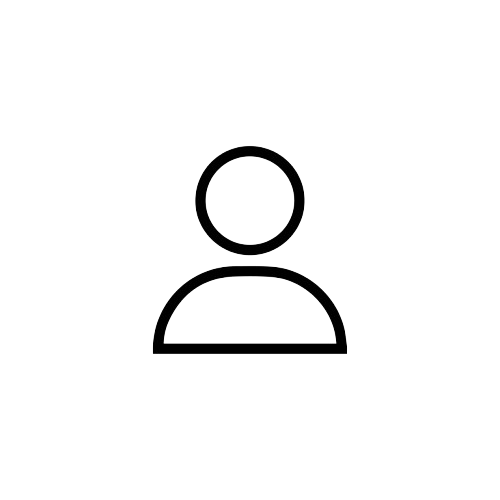
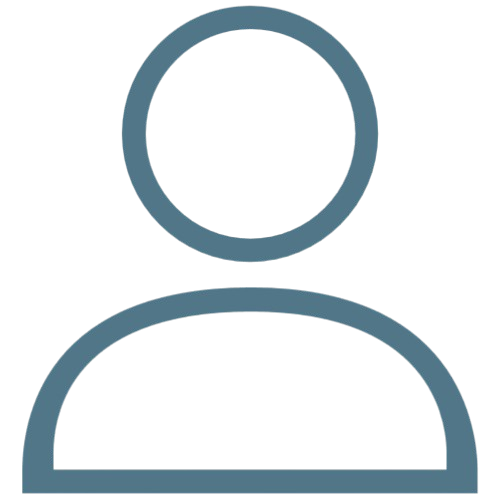
Cambio de unidades de medida, mejora del Navbar

Changed region(s): [[0.03, 0.0, 0.96, 0.99]]

diff --git a/view/styles.css b/view/styles.css
@@ -1,144 +1,154 @@
+:root {
+    --blue: rgba(80, 118, 135, 1);
+    --light: rgba(248, 245, 231, 1);
+    --dark: rgba(51, 51, 51, 1);
+}
+
 body {
-    background: #f8f5e7;
-    color: #333;
-    padding-left: 6%;
-    padding-right: 6%;
+    overflow-x: hidden;
+    background: var(--light);
+    color: var(--dark);
     font-family: 'Segoe UI', Tahoma, Geneva, Verdana, sans-serif;
     font-size: 1em;
     line-height: 1.5;
+    margin: 0;
 }
 
 /* NAVBAR */
+/* CONTAINER */
 .navbar {
     display: flex;
     flex-wrap: wrap;
     justify-content: space-between;
     align-items: center;
-    margin-top: 2vh 0;
+    margin: 0;
+    padding-left: 1em;
+    padding-right: 1em;
+    box-sizing: border-box;
+    background-color: var(--blue);
 }
 
-.logo {
-    order: 0;
-    display: flex;
-    align-items: center;
-    height: 4vh; 
-}
+/* NAVBAR */
+/* LOGO */
 .logo img {
-    width: 150px; 
+    width: 10em;
+    max-width: 100%;
+    height: auto;
     transition: transform 0.3s ease;
 }
 .logo img:hover {
     transform: scale(1.05);
 }
 
-.section-nav {
-    display: flex;
-    gap: 2vw;
-}
-.section-nav a {
-    color: rgba(77, 106, 141, 1);
-    text-decoration: none;
-    font-size: 2vh;
-    padding: 1vh 1vw; 
-    border-radius: 1vh; 
-    transition: background-color 0.3s ease-in-out, color 0.3s ease-in-out;
-}
-.section-nav a:hover {
-    background-color: rgba(77, 106, 141, 1);
-    color: white;
-}
-
+/* NAVBAR */
+/* SEARCH BAR*/
 .search-container {
     display: flex;
     align-items: center;
     background: white;
-    border-radius: 4vh;
-    box-shadow: 0.5vh 0.5vh 1vh rgba(0, 0, 0, 0.2); 
-    height: 6vh;
-    width: 40vw;
-    transition: 0.3s;
+    border-radius: 2em;
+    height: 3em;
+    width: 40%;
     overflow: hidden;
+    box-shadow: 0 0 0.25em rgba(0, 0, 0, 0.15);
+    transition: all 0.3s ease-in-out;
+    transform: scale(1);
 }
 .search-container:hover {
-    box-shadow: 0.8vh 0.8vh 1vh rgba(0, 0, 0, 0.3);
+    box-shadow: 0 0.6em 1.2em rgba(0, 0, 0, 0.3);
+    transform: scale(1.01);
 }
 .search-bar {
     width: 100%;
     border: none;
     outline: none;
-    font-size: 2vh;
-    padding: 1vh;
-    border-radius: 4vh;
+    font-size: 1em;
+    padding: 0.5em;
     background: transparent; 
 }
+
 .search-button {
+    display: flex;
+    align-items: center;
+    justify-content: center;
     background: transparent;
     border: none;
     cursor: pointer;
-    padding: 1vh;
-    padding-right: 2vh;
-    display: flex;
-    align-items: center;
+    padding: 0.5em;
 }
 .search-button img {
-    width: 3vh; 
-    height: 3vh;
+    width: 2.5em;
+    height: 2.5em;
 }
 
+/* NAVBAR */
+/* ACCOUNT MENU */
 .account-menu {
     position: relative;
 }
 .account-button {
     display: flex;
     align-items: center;
+    justify-content: space-between;
     background: white;
     border: none;
-    padding: 1vh 1vw;
-    border-radius: 4vh;
-    box-shadow: 0.5vh 0.5vh 1vh rgba(0, 0, 0, 0.2); 
+    padding: 0 1em;
+    height: 3em;
+    border-radius: 2em;
+    box-shadow: 0 0 0.25em rgba(0, 0, 0, 0.15);
     cursor: pointer;
-    height: 6vh;
-    transition: 0.3s;
-    overflow: hidden;
+    gap: 0.8em;
+    transition: all 0.3s ease-in-out;
+    transform: scale(1);
 }
+.account-button:hover {
+    box-shadow: 0 0.8em 1.5em rgba(0, 0, 0, 0.3);
+    transform: scale(1.01);
+}
+
 .account-icon {
     display: flex;
     flex-direction: column;
-    gap: 0.2vh;
+    justify-content: center;
+    gap: 0.3em;
     margin-right: 1vw;
     min-height: 0;
 }
 .account-icon hr {
-    margin: 0.2vh;
-    width: 2.5vw; 
-    height: 0.3vh;
-    background-color: rgba(77, 106, 141, 1);
+    margin: 0;
+    width: 1.5em;
+    height: 0.2em;
+    background-color: var(--blue);
     border: none;
-    border-radius: 2vh;
+    border-radius: 1em;
     transition: transform 0.3s ease-in-out;
 }
+
 .account-picture {
-    width: 5vh; 
-    height: 5vh;
+    width: 2.2em; 
+    height: 2.2em;
     display: flex;
     align-items: center;
     justify-content: center;
-    background: #ddd;
+    background: white;
     border-radius: 50%;
+    overflow: hidden;
 }
 .account-picture img {
-    width: 7vh;  
-    height: 7vh;
+    width: 100%;
+    height: 100%;
+    object-fit: contain;
 }
+
 .account-dropdown-menu {
     position: absolute;
     top: 110%;
     right: 0;
     background: white;
-    box-shadow: 0.5vh 0.5vh 1vh rgba(0, 0, 0, 0.2);
-    border-radius: 2vh;
+    box-shadow: 0 0.5em 1em rgba(0, 0, 0, 0.2);
+    border-radius: 1.5em;
     display: none;
-    width: 12vw;
+    width: 12em;
     min-width: 150px;
     z-index: 100;
     transition: opacity 0.3s ease-in-out;
@@ -146,17 +156,21 @@ body {
 }
 .account-dropdown-menu ul {
     list-style: none;
-    padding: 1vh;
+    padding: 1em;
     margin: 0;
 }
 .account-dropdown-menu li {
-    padding: 1vh;
-    font-size: 2vh;
+    padding: 0.75em;
+    font-size: 1rem;
 }
 .account-dropdown-menu li a {
     text-decoration: none;
-    color: black;
+    color: var(--dark);
     display: block;
+    transition: color 0.2s;
+}
+.account-dropdown-menu li a:hover {
+    color: var(--blue);
 }
 .account-menu:focus-within .account-dropdown-menu {
     display: block;
@@ -193,7 +207,7 @@ body {
 }
 .main-concert-banner button {
     background: white; 
-    color: rgba(77, 106, 141, 1);
+    color: var(--blue);
     font-size: 3vh;
     font-weight: bold;
     letter-spacing: 0.1vh;
@@ -205,7 +219,7 @@ body {
     box-shadow: 0.3vh 0.3vh 0.5vh rgba(0, 0, 0, 0.2);
 }
 .main-concert-banner button:hover {
-    background-color: rgba(77, 106, 141, 1);
+    background-color: var(--blue);
     color: white;
     transform: scale(1.05); 
 }
@@ -221,14 +235,14 @@ body {
     display: inline-block;
     font-size: 3vh;
     font-weight: semi-bold;
-    color: rgba(77, 106, 141, 1);
+    color: var(--blue);
     margin-bottom: 0.5vh;
     
 }
 .section-title hr {
     width: 100%;
     height: 0.3vh;
-    background-color: rgba(77, 106, 141, 1); 
+    background-color: var(--blue); 
     border: none;
 }
 
@@ -251,7 +265,7 @@ body {
     transition: 0.3s ease-in-out;
 }
 .concert-banner:hover {
-    background-color: rgba(77, 106, 141, 1);
+    background-color: var(--blue);
     
 }
 .concert-banner:hover p, 
@@ -272,7 +286,7 @@ body {
     margin-left: 1vh;
     margin-top: 1.2vh;
     margin-bottom: 1vh;
-    color: rgba(77, 106, 141, 1);
+    color: var(--blue);
     transition: 0.3s ease-in-out;
 }
 .concert-info h3 {
@@ -320,11 +334,11 @@ body {
     display: flex;
     align-items: center;
     justify-content: center;
-    border: 0.3vh solid rgba(77, 106, 141, 1);
+    border: 0.3vh solid var(--blue);
     border-radius: 2vh;
     font-size: 2vh;
     font-weight: bold;
-    color: rgba(77, 106, 141, 1);
+    color: var(--blue);
     height: 45vh;
 }
 
@@ -396,8 +410,7 @@ pc: 1920 × 1080 px
         padding-bottom: 15vh; 
     }
 }
-*/
-/*
+
 @media screen and (max-width: 480px) {
     .logo {
         display: flex;
@@ -459,7 +472,7 @@ pc: 1920 × 1080 px
         justify-content: center;
     }
     .section-nav a {
-        color: rgba(77, 106, 141, 1);
+        color: var(--blue);
         text-decoration: none;
         font-size: 2vh;
         padding: 1vh; 
@@ -578,9 +591,11 @@ pc: 1920 × 1080 px
     }
 }
 */
+
+
 footer {
-    background-color: rgba(77, 106, 141, 1);
-    color: #f8f5e7;
+    background-color: var(--blue);
+    color: var(--light);
     padding: 1vh 1vw;
     margin-left: -6%;
     margin-right: -6%;
@@ -602,8 +617,8 @@ footer h2 {
     margin-right: auto;
 }
 .review-card {
-    background-color: #f8f5e7;
-    color: #333;
+    background-color: var(--light);
+    color: var(--dark);
     border-radius: 1.5vh;
     padding: 2vh;
     max-width: 20vw;
@@ -648,10 +663,10 @@ footer h2 {
 .footer-column h3 {
     margin-bottom: 1vh;
     font-size: 1.8vh;
-    color: #f8f5e7;
+    color: var(--light);
 }
 .footer-column a {
-    color: #f8f5e7;
+    color: var(--light);
     text-decoration: none;
     font-size: 1.5vh;
 }

diff --git a/view/index.php b/view/index.php
@@ -13,11 +13,6 @@
                 <img src="img/Interfaces/logo.png" alt="Tickets Now">
             </a>
         </div>
-        <div class="section-nav">
-            <a href="#featured-concerts">Destacados</a>
-            <a href="#recommended-concerts">Recomendados</a>
-            <a href="#discover-concerts">Descubre</a>
-        </div>
         <div class="search-container">
             <input type="text" class="search-bar" placeholder="Buscar...">
             <button class="search-button">
